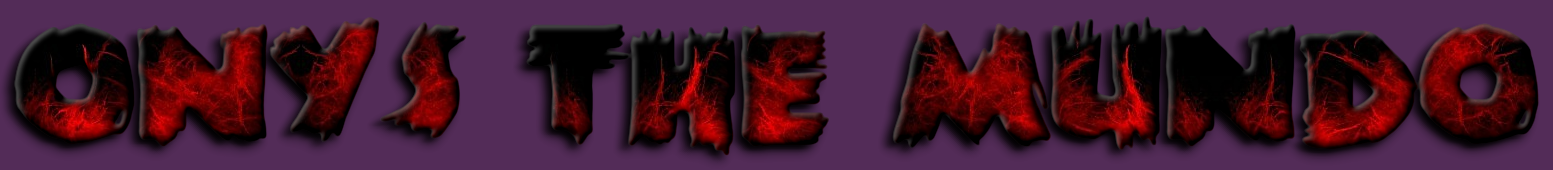
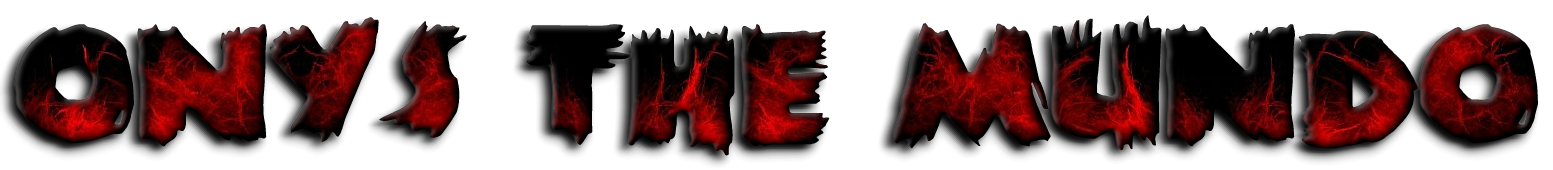
Yet another update

diff --git a/index.html b/index.html
@@ -8,22 +8,33 @@
 	height: cover;
     background-size: cover;
     background-repeat: no-repeat;
-	animation: test 2s linear infinite;
+	animation: bgChange 2s linear infinite;
 	}
-  @keyframes test  {
-    0% {background-image: url("img/background.jpg"); filter:invert(100%);}
-	49.99% {background-image: url("img/background.jpg"); filter:invert(100%);}
-    50% {background-image: url("img/background2.jpg"); filter:invert(0%);}
-    100% {background-image: url("img/background2.jpg"); filter:invert(0%);}
+  @keyframes bgChange  {
+    0% {background-image: url("img/background.jpg");}
+	49.99% {background-image: url("img/background.jpg");}
+    50% {background-image: url("img/background2.jpg");}
+    100% {background-image: url("img/background2.jpg");}
   }
-  .blink {
-    animation: blink 2s linear infinite;
-	}
+  @keyframes invert {
+    0% {filter:invert(0%)}
+	49.99% {filter:invert(0%)}
+	50% {filter:invert(100%)}
+	100% {filter:invert(100%)}
+  }
   @keyframes blink {
     0% { opacity: 1; }
     49.99% { opacity: 1; }
     50% { opacity: 0; }
     100% { opacity: 0; }
+  }
+  @keyframes spin {
+  0% {transform:scale(1,1);}
+  10% {transform:scale(1,1);}
+  40% {transform:scale(-1,1)}
+  60% {transform:scale(-1,1)}
+  90% {transform:scale(1,1);}
+  100% {transform:scale(1,1);}
   }
   .tilt {
     transform: rotate(90deg);
@@ -35,13 +46,14 @@
  </style>
 </head>
 <body>
-  <p style="text-align:center"=""><img class="blink" src="img/title.png" style="width:cover;filter:invert(100%)"></p>
- <br>
+ <div>
+  <p style="text-align:center"><img src="img/title.png" style="width:cover;animation: spin 5s linear infinite;"></p><br>
  <table>
   <tr>
-   <td><a href="http://eune.op.gg/summoner/userName=onysthe%C5%A5ulda"><img src="img/opgg.png"></a></td>
-   <td width="10px"><center><font class="tilt" size="50">My OP.GG</center></font></td>  
+   <td><a href="http://eune.op.gg/summoner/userName=onysthe%C5%A5ulda"><img style="animation: invert 2s reverse infinite;"src="img/opgg.png"></a></td>
+   <td width="10px" style="animation: invert 2s reverse infinite;"><center><font class="tilt" size="50">My OP.GG</center></font></td>  
   </tr>
  </table>
+ </div>
 </body>
 </html>
